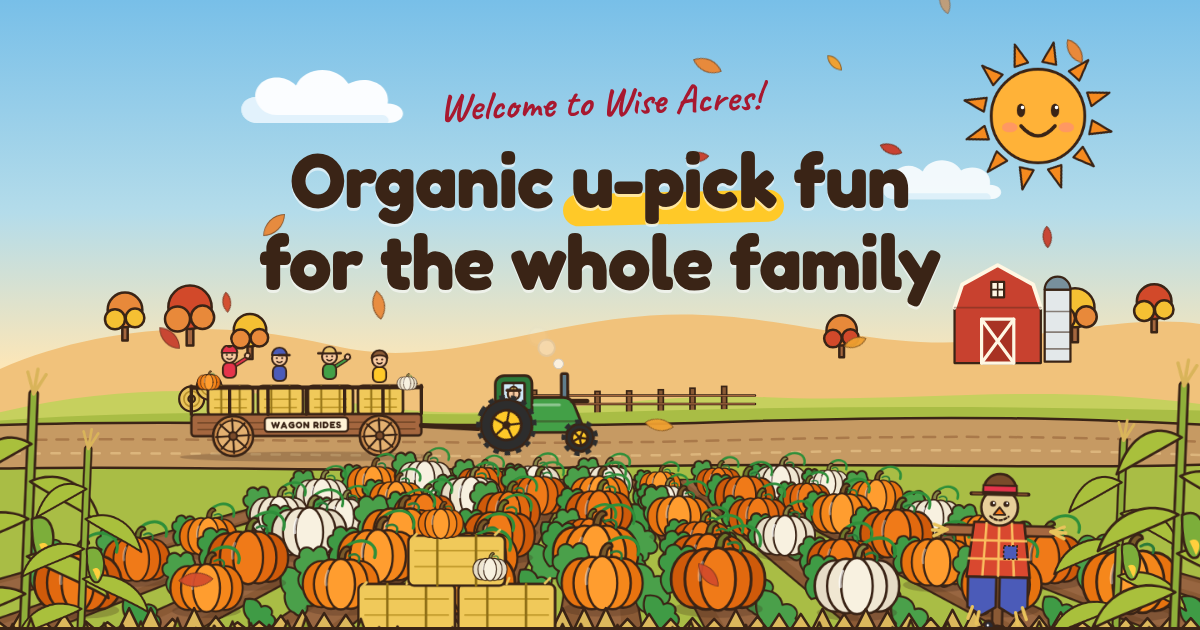
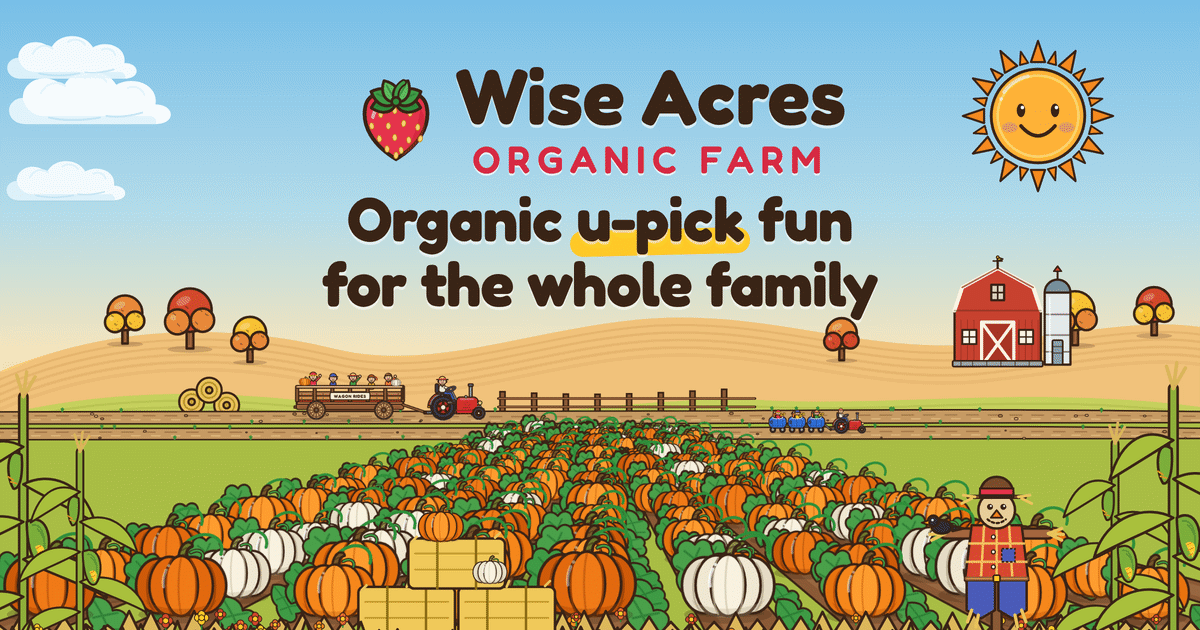
New share image (1200x630, fall farm scene with name and headline, yellow hat bands); alt text and checklist updated
Claude-Session: https://claude.ai/code/session_016TmrCsikkBKpN9HzniSTFT

diff --git a/index.html b/index.html
@@ -14,11 +14,11 @@
   <meta property="og:image" content="https://www.wiseacresorganic.com/assets/og-share.png">
   <meta property="og:image:width" content="1200">
   <meta property="og:image:height" content="630">
-  <meta property="og:image:alt" content="Illustration of a fall farm: a tractor pulling a wagon of children past a pumpkin patch, a red barn and a scarecrow, with the words Welcome to Wise Acres! Organic u-pick fun for the whole family">
+  <meta property="og:image:alt" content="Illustration of a fall farm with a smiling sun, a red barn, a tractor pulling a wagon of children, a pumpkin patch and a scarecrow, with the words Wise Acres Organic Farm. Organic u-pick fun for the whole family">
   <meta property="og:site_name" content="Wise Acres Organic Farm">
   <meta property="og:locale" content="en_US">
   <meta name="twitter:card" content="summary_large_image">
-  <meta name="twitter:image:alt" content="Illustration of a fall farm: a tractor pulling a wagon of children past a pumpkin patch, a red barn and a scarecrow, with the words Welcome to Wise Acres! Organic u-pick fun for the whole family">
+  <meta name="twitter:image:alt" content="Illustration of a fall farm with a smiling sun, a red barn, a tractor pulling a wagon of children, a pumpkin patch and a scarecrow, with the words Wise Acres Organic Farm. Organic u-pick fun for the whole family">
   <link rel="icon" href="assets/favicon.svg" type="image/svg+xml">
   <link rel="icon" href="assets/icon-192.png" sizes="192x192" type="image/png">
   <link rel="apple-touch-icon" href="assets/apple-touch-icon.png">

diff --git a/first-visit.html b/first-visit.html
@@ -30,9 +30,9 @@
   <meta property="og:image" content="https://www.wiseacresorganic.com/assets/og-share.png">
   <meta property="og:image:width" content="1200">
   <meta property="og:image:height" content="630">
-  <meta property="og:image:alt" content="Illustration of a fall farm: a tractor pulling a wagon of children past a pumpkin patch, a red barn and a scarecrow, with the words Welcome to Wise Acres! Organic u-pick fun for the whole family">
+  <meta property="og:image:alt" content="Illustration of a fall farm with a smiling sun, a red barn, a tractor pulling a wagon of children, a pumpkin patch and a scarecrow, with the words Wise Acres Organic Farm. Organic u-pick fun for the whole family">
   <meta name="twitter:card" content="summary_large_image">
-  <meta name="twitter:image:alt" content="Illustration of a fall farm: a tractor pulling a wagon of children past a pumpkin patch, a red barn and a scarecrow, with the words Welcome to Wise Acres! Organic u-pick fun for the whole family">
+  <meta name="twitter:image:alt" content="Illustration of a fall farm with a smiling sun, a red barn, a tractor pulling a wagon of children, a pumpkin patch and a scarecrow, with the words Wise Acres Organic Farm. Organic u-pick fun for the whole family">
   <script type="application/ld+json">
 {
   "@context": "https://schema.org",

diff --git a/pumpkin-patch.html b/pumpkin-patch.html
@@ -30,9 +30,9 @@
   <meta property="og:image" content="https://www.wiseacresorganic.com/assets/og-share.png">
   <meta property="og:image:width" content="1200">
   <meta property="og:image:height" content="630">
-  <meta property="og:image:alt" content="Illustration of a fall farm: a tractor pulling a wagon of children past a pumpkin patch, a red barn and a scarecrow, with the words Welcome to Wise Acres! Organic u-pick fun for the whole family">
+  <meta property="og:image:alt" content="Illustration of a fall farm with a smiling sun, a red barn, a tractor pulling a wagon of children, a pumpkin patch and a scarecrow, with the words Wise Acres Organic Farm. Organic u-pick fun for the whole family">
   <meta name="twitter:card" content="summary_large_image">
-  <meta name="twitter:image:alt" content="Illustration of a fall farm: a tractor pulling a wagon of children past a pumpkin patch, a red barn and a scarecrow, with the words Welcome to Wise Acres! Organic u-pick fun for the whole family">
+  <meta name="twitter:image:alt" content="Illustration of a fall farm with a smiling sun, a red barn, a tractor pulling a wagon of children, a pumpkin patch and a scarecrow, with the words Wise Acres Organic Farm. Organic u-pick fun for the whole family">
   <script type="application/ld+json">
 {
   "@context": "https://schema.org",

diff --git a/school-field-trips.html b/school-field-trips.html
@@ -30,9 +30,9 @@
   <meta property="og:image" content="https://www.wiseacresorganic.com/assets/og-share.png">
   <meta property="og:image:width" content="1200">
   <meta property="og:image:height" content="630">
-  <meta property="og:image:alt" content="Illustration of a fall farm: a tractor pulling a wagon of children past a pumpkin patch, a red barn and a scarecrow, with the words Welcome to Wise Acres! Organic u-pick fun for the whole family">
+  <meta property="og:image:alt" content="Illustration of a fall farm with a smiling sun, a red barn, a tractor pulling a wagon of children, a pumpkin patch and a scarecrow, with the words Wise Acres Organic Farm. Organic u-pick fun for the whole family">
   <meta name="twitter:card" content="summary_large_image">
-  <meta name="twitter:image:alt" content="Illustration of a fall farm: a tractor pulling a wagon of children past a pumpkin patch, a red barn and a scarecrow, with the words Welcome to Wise Acres! Organic u-pick fun for the whole family">
+  <meta name="twitter:image:alt" content="Illustration of a fall farm with a smiling sun, a red barn, a tractor pulling a wagon of children, a pumpkin patch and a scarecrow, with the words Wise Acres Organic Farm. Organic u-pick fun for the whole family">
   <script type="application/ld+json">
 {
   "@context": "https://schema.org",

diff --git a/strawberry-picking.html b/strawberry-picking.html
@@ -30,9 +30,9 @@
   <meta property="og:image" content="https://www.wiseacresorganic.com/assets/og-share.png">
   <meta property="og:image:width" content="1200">
   <meta property="og:image:height" content="630">
-  <meta property="og:image:alt" content="Illustration of a fall farm: a tractor pulling a wagon of children past a pumpkin patch, a red barn and a scarecrow, with the words Welcome to Wise Acres! Organic u-pick fun for the whole family">
+  <meta property="og:image:alt" content="Illustration of a fall farm with a smiling sun, a red barn, a tractor pulling a wagon of children, a pumpkin patch and a scarecrow, with the words Wise Acres Organic Farm. Organic u-pick fun for the whole family">
   <meta name="twitter:card" content="summary_large_image">
-  <meta name="twitter:image:alt" content="Illustration of a fall farm: a tractor pulling a wagon of children past a pumpkin patch, a red barn and a scarecrow, with the words Welcome to Wise Acres! Organic u-pick fun for the whole family">
+  <meta name="twitter:image:alt" content="Illustration of a fall farm with a smiling sun, a red barn, a tractor pulling a wagon of children, a pumpkin patch and a scarecrow, with the words Wise Acres Organic Farm. Organic u-pick fun for the whole family">
   <script type="application/ld+json">
 {
   "@context": "https://schema.org",

diff --git a/wise-pie.html b/wise-pie.html
@@ -30,9 +30,9 @@
   <meta property="og:image" content="https://www.wiseacresorganic.com/assets/og-share.png">
   <meta property="og:image:width" content="1200">
   <meta property="og:image:height" content="630">
-  <meta property="og:image:alt" content="Illustration of a fall farm: a tractor pulling a wagon of children past a pumpkin patch, a red barn and a scarecrow, with the words Welcome to Wise Acres! Organic u-pick fun for the whole family">
+  <meta property="og:image:alt" content="Illustration of a fall farm with a smiling sun, a red barn, a tractor pulling a wagon of children, a pumpkin patch and a scarecrow, with the words Wise Acres Organic Farm. Organic u-pick fun for the whole family">
   <meta name="twitter:card" content="summary_large_image">
-  <meta name="twitter:image:alt" content="Illustration of a fall farm: a tractor pulling a wagon of children past a pumpkin patch, a red barn and a scarecrow, with the words Welcome to Wise Acres! Organic u-pick fun for the whole family">
+  <meta name="twitter:image:alt" content="Illustration of a fall farm with a smiling sun, a red barn, a tractor pulling a wagon of children, a pumpkin patch and a scarecrow, with the words Wise Acres Organic Farm. Organic u-pick fun for the whole family">
   <script type="application/ld+json">
 {
   "@context": "https://schema.org",

diff --git a/tools/pages.py b/tools/pages.py
@@ -24,7 +24,7 @@ from bs4 import BeautifulSoup
 ROOT = os.path.dirname(os.path.dirname(os.path.abspath(__file__)))
 SITE = 'https://www.wiseacresorganic.com/'
 OG_IMAGE = 'assets/og-share.png'
-OG_IMAGE_ALT = 'Illustration of a fall farm: a tractor pulling a wagon of children past a pumpkin patch, a red barn and a scarecrow, with the words Welcome to Wise Acres! Organic u-pick fun for the whole family'   # keep identical to og:image:alt in index.html
+OG_IMAGE_ALT = 'Illustration of a fall farm with a smiling sun, a red barn, a tractor pulling a wagon of children, a pumpkin patch and a scarecrow, with the words Wise Acres Organic Farm. Organic u-pick fun for the whole family'   # keep identical to og:image:alt in index.html
 
 PAGES_DIR = os.path.join(ROOT, 'pages')
 

diff --git a/docs/LAUNCH_CHECKLIST.md b/docs/LAUNCH_CHECKLIST.md
@@ -279,8 +279,9 @@ If you do want it (decision D5):
 
 ### 3.11 The share image
 
-- [ ] `assets/og-share.png` is the picture people see when the address is pasted into Facebook, a text message or similar. It is 1200 by 630 pixels, 400 KB: a drawing of the farm with the words "Welcome to Wise Acres! Organic u-pick fun for the whole family". Every page uses it.
+- [ ] `assets/og-share.png` is the picture people see when the address is pasted into Facebook, a text message or similar. It is 1200 by 630 pixels, 208 KB: the fall farm from the top of the home page (sun, barn, wagon ride, pumpkin patch, scarecrow) with the name "Wise Acres Organic Farm" and the words "Organic u-pick fun for the whole family". Every page uses it.
 - [ ] Decision D7: keep the drawing, or use a real photo? To change it, replace the file with a new 1200 by 630 picture of the same name, or ask Claude.
+- [ ] Before launch you can replace the file under the same name. After launch, give a changed picture a new file name (change `OG_IMAGE` in `tools/pages.py`, the `og:image` line in `index.html`, and run the rebuild): `/assets/*` is cached for a year (see `_headers`), and Facebook, WhatsApp and iMessage keep old previews for days or weeks.
 - [ ] After launch, paste the home address into a new text message or a Facebook post draft (not an old one: apps keep previews for days) and look at the picture and the title.
 
 ### 3.12 Your Google Business Profile
